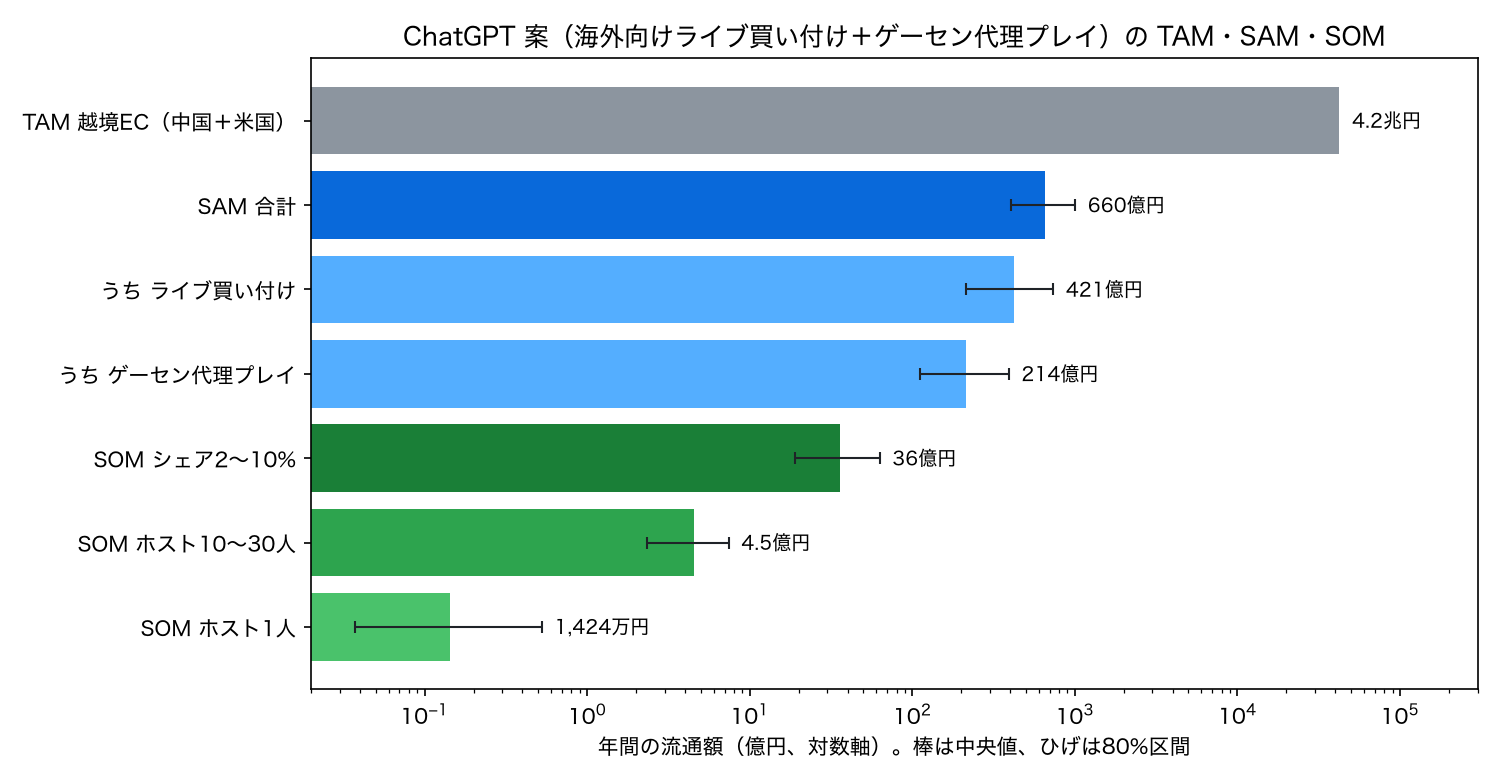
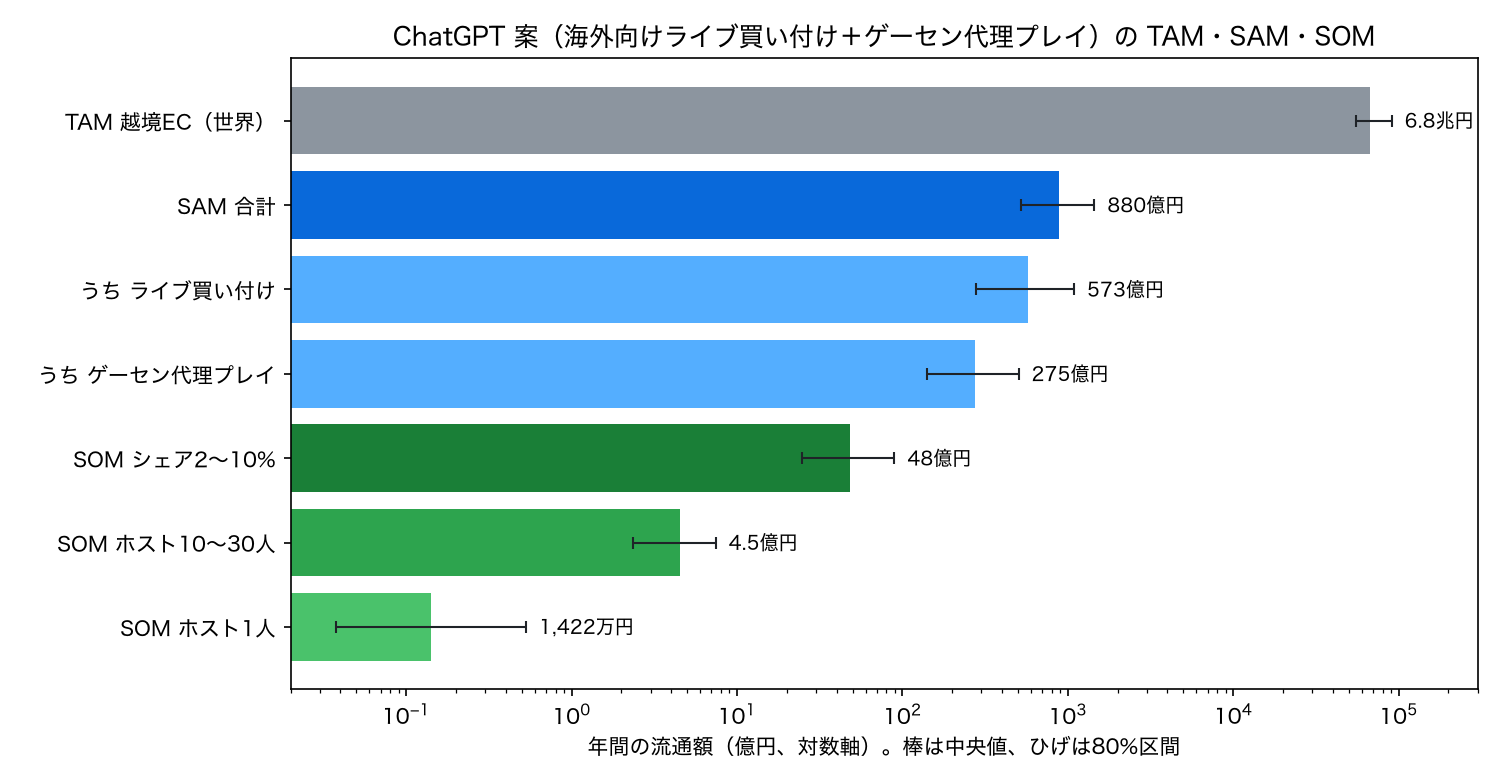
docs: extend ChatGPT plan TAM to worldwide cross-border EC via calibrated gravity model
World Bank GDP and capitals for 200 countries plus Taiwan; calibrated on US, residual multiplier from China and Korea actuals.

diff --git a/raid/overseas-crane-demand/index.html b/raid/overseas-crane-demand/index.html
@@ -479,24 +479,46 @@
       <table class="striped">
         <thead><tr><th>段</th><th>定義</th><th>年間の流通額</th><th>粗利</th></tr></thead>
         <tbody>
-          <tr><td><strong>TAM</strong></td><td>海外の消費者が日本の事業者から買う越境EC（中国＋米国。他地域は統計なし）</td><td class="num"><strong>4.2兆円</strong></td><td>—</td></tr>
-          <tr><td><strong>SAM</strong></td><td>英語圏など中国以外から、ライブで売れる品目の代理購入＋ゲーセン代理プレイ</td><td class="num"><strong>660億円</strong><br><span class="secondary">408〜1,003億</span></td><td>—</td></tr>
-          <tr><td>　うちライブ買い付け</td><td>米国の越境購入 1兆5,978億 × 他地域 1.2〜1.8倍 × 現地でないと見つけにくい品目 15〜35% × ライブで売れる割合 3〜12%</td><td class="num">421億円<br><span class="secondary">213〜735億</span></td><td>—</td></tr>
-          <tr><td>　うちゲーセン代理プレイ</td><td>9節の B（北米・欧州）と同じ: コレクタブル系ライブ × 日本IP × ゲーム形式 × 日本発</td><td class="num">214億円<br><span class="secondary">111〜392億</span></td><td>—</td></tr>
-          <tr><td><strong>SOM</strong>（ホスト1人）</td><td>ChatGPT の「1人の配信者のビジネスとして始める」</td><td class="num"><strong>1,424万円</strong><br><span class="secondary">373万〜5,243万</span></td><td class="num">461万円<br><span class="secondary">117万〜1,741万</span></td></tr>
-          <tr><td><strong>SOM</strong>（ホスト10〜30人）</td><td>ChatGPT の「複数の配信者と店舗をつなぐ事業に広げる」（3〜5年）</td><td class="num"><strong>4.5億円</strong><br><span class="secondary">2.3〜7.4億</span></td><td class="num">1.5億円<br><span class="secondary">0.8〜2.4億</span></td></tr>
-          <tr><td><strong>SOM</strong>（SAM の 2〜10%）</td><td>上から見て、新規1社が取れる上限の目安</td><td class="num"><strong>36億円</strong><br><span class="secondary">19〜63億</span></td><td class="num">11億円<br><span class="secondary">6〜19億</span></td></tr>
+          <tr><td><strong>TAM</strong></td><td>世界の消費者が日本の事業者から買う越境EC（200か国。推計方法は下の小節）</td><td class="num"><strong>6.8兆円</strong><br><span class="secondary">5.6〜9.1兆</span></td><td>—</td></tr>
+          <tr><td>　うち英語ホストが届く範囲</td><td>国別の届く割合を掛けた値（英語圏 100%、中国本土 0%、台湾・香港・韓国 10〜40%、その他 40〜80%）</td><td class="num">3.2兆円<br><span class="secondary">2.4〜4.7兆</span></td><td>—</td></tr>
+          <tr><td><strong>SAM</strong></td><td>英語ホストが届く範囲から、ライブで売れる品目の代理購入＋ゲーセン代理プレイ</td><td class="num"><strong>880億円</strong><br><span class="secondary">523〜1,448億</span></td><td>—</td></tr>
+          <tr><td>　うちライブ買い付け</td><td>届く範囲 3.2兆 × 現地でないと見つけにくい品目 15〜35% × ライブで売れる割合 3〜12%</td><td class="num">573億円<br><span class="secondary">278〜1,091億</span></td><td>—</td></tr>
+          <tr><td>　うちゲーセン代理プレイ</td><td>9節の B（北米・欧州）を、日本からの越境購入の地域分布に合わせて世界へ広げた</td><td class="num">275億円<br><span class="secondary">141〜504億</span></td><td>—</td></tr>
+          <tr><td><strong>SOM</strong>（ホスト1人）</td><td>ChatGPT の「1人の配信者のビジネスとして始める」</td><td class="num"><strong>1,422万円</strong><br><span class="secondary">375万〜5,292万</span></td><td class="num">460万円<br><span class="secondary">118万〜1,750万</span></td></tr>
+          <tr><td><strong>SOM</strong>（ホスト10〜30人）</td><td>ChatGPT の「複数の配信者と店舗をつなぐ事業に広げる」（3〜5年）</td><td class="num"><strong>4.5億円</strong><br><span class="secondary">2.3〜7.4億</span></td><td class="num">1.5億円<br><span class="secondary">0.8〜2.5億</span></td></tr>
+          <tr><td><strong>SOM</strong>（SAM の 2〜10%）</td><td>上から見て、新規1社が取れる上限の目安</td><td class="num"><strong>48億円</strong><br><span class="secondary">25〜89億</span></td><td class="num">14億円<br><span class="secondary">7〜27億</span></td></tr>
         </tbody>
       </table>
     </div>
     <p class="note">ホスト1人のモデル: 月8〜16回配信、1配信の視聴者は中央値300人（対数正規）、購入率1〜10%（最頻4%）。配信の3〜6割をゲーセン回（1注文3,000〜8,000円、プレイ代1,000〜4,000円）、残りを買い付け回（1注文4,000〜15,000円、手数料＋粗利15〜30%）とした。粗利は人件費・梱包・発送作業の前。</p>
 
+    <h3>世界全体の越境EC（TAM）の推計方法</h3>
+    <p>日本の事業者からの越境EC購入額を国別に実測している公的統計は、中国・米国（経産省）と韓国（韓国統計庁）の3か国だけです。そこで、6節の重力モデル（GDP × 距離<sup>−β</sup>、オンラインの距離弾力性 β = 0.315〜0.405）を世界銀行の200か国（＋台湾）に広げ、米国の実測で目盛りを合わせました。</p>
+    <div class="grid two">
+      <figure><img src="img/10_world_crossborder.png" alt="世界の消費者が日本から買う越境EC：地域別"><figcaption>横軸: 日本の事業者からの越境EC購入額（億円/年、2024年）。棒は中央値、ひげは80%区間。北米と東アジアは実測を含むため幅が狭い</figcaption></figure>
+      <div>
+        <div class="table-wrap">
+          <table>
+            <thead><tr><th>国</th><th>実測（2024年）</th><th>重力モデルの予測</th><th>実測 ÷ 予測</th></tr></thead>
+            <tbody>
+              <tr><td>米国</td><td class="num">1兆5,978億円</td><td class="num">（目盛り合わせ）</td><td class="num">1.00</td></tr>
+              <tr><td>中国</td><td class="num">2兆6,372億円</td><td class="num">約1兆8,400億円</td><td class="num">1.43</td></tr>
+              <tr><td>韓国</td><td class="num">約603億円<br><span class="secondary">5,436億ウォン</span></td><td class="num">約2,300億円</td><td class="num">0.26</td></tr>
+            </tbody>
+          </table>
+        </div>
+        <p style="margin-top:8px">モデルの当たり外れは国によって大きい（中国は予測より多く、韓国は4分の1）。そこで、3か国の「実測 ÷ 予測」の対数平均と標準誤差から補正倍率を引き（中央値0.72、80%区間0.37〜1.40）、実測のない国の予測に掛けました。</p>
+        <p><strong>結果: 世界全体で約6.8兆円（5.6〜9.1兆円）。</strong>中国＋米国の実測 4.2兆円に、欧州 約1.2兆円（0.6〜2.4兆）、中南米・中東・南アジア 各約2,000〜2,400億円、台湾・香港・マカオ 約850億円などが加わる。世界の越境EC 1.01兆ドル（約152兆円、経産省引用）の約4.4%にあたる。</p>
+      </div>
+    </div>
+    <p class="note">限界: 台湾・香港は日本製品の人気が高く、補正倍率（韓国の低さに引っ張られている）では過小の可能性がある。欧州は VAT・関税の手続きがあり、過大の可能性がある。実測が3か国しかないため、補正倍率の不確実性は大きい。</p>
+
     <h3>推計から読めること</h3>
     <ul>
-      <li><strong>TAM 4.2兆円の6割強は中国の消費者（2兆6,372億円）で、英語ホストの配信では届かない。</strong>中国向けにするなら、中国語ホストと現地プラットフォーム（抖音・小紅書など）という別の案になる。</li>
-      <li><strong>SAM は約660億円で、買い付けが3分の2、ゲーセン代理プレイが3分の1。</strong>ゲーセンだけに絞るより、買い付けと組み合わせたほうが届く市場は約3倍になる。</li>
-      <li><strong>代理購入市場から絞る別の計算では、ライブ買い付けの SAM は約150億円（76〜248億）。</strong>Buyee の流通額 774億円 ÷ Buyee のシェア 25〜45% × 中国以外 40〜70% × ライブ割合 5〜20%。上の421億円との間に真の値があると見るのが自然。</li>
-      <li><strong>SOM を決めるのは市場の大きさではなく、ホストの人数と発送の人手。</strong>シェアから見た上限の36億円に届くには、ホスト1人あたり約1,400万円なので250人規模が要る。ホスト10〜30人でも1日の注文は約170件（87〜275件）になり、買い付け・梱包・発送の人員が先に上限になる。</li>
+      <li><strong>世界の TAM 6.8兆円のうち、中国が2.64兆円（約4割）、米国が1.60兆円。</strong>中国は英語ホストの配信では届かない。中国向けにするなら、中国語ホストと現地プラットフォーム（抖音・小紅書など）という別の案になる。英語で届く範囲は約3.2兆円。</li>
+      <li><strong>SAM は約880億円で、買い付けが3分の2、ゲーセン代理プレイが3分の1。</strong>ゲーセンだけに絞るより、買い付けと組み合わせたほうが届く市場は約3倍になる。中国＋米国だけで数えた場合（約660億円）より約3割大きい。</li>
+      <li><strong>代理購入市場から絞る別の計算では、ライブ買い付けの SAM は約150億円（76〜248億）。</strong>Buyee の流通額 774億円 ÷ Buyee のシェア 25〜45% × 中国以外 40〜70% × ライブ割合 5〜20%。上の573億円との間に真の値があると見るのが自然。</li>
+      <li><strong>SOM を決めるのは市場の大きさではなく、ホストの人数と発送の人手。</strong>シェアから見た上限の48億円に届くには、ホスト1人あたり約1,400万円なので約340人が要る。ホスト10〜30人でも1日の注文は約170件（87〜275件）になり、買い付け・梱包・発送の人員が先に上限になる。</li>
       <li><strong>ホスト1人なら、粗利は年約460万円。</strong>ChatGPT の「小さく始める価値は高いが、街歩き配信だけを事業の中心に据えるのはまだ早い」という判断と合う規模。</li>
     </ul>
 
